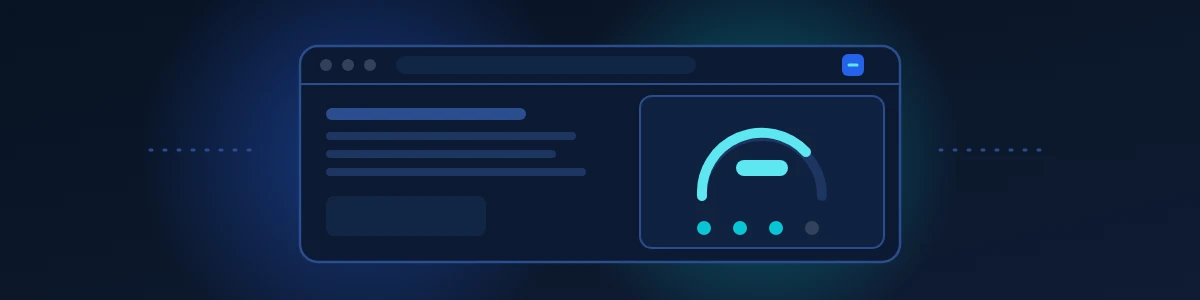
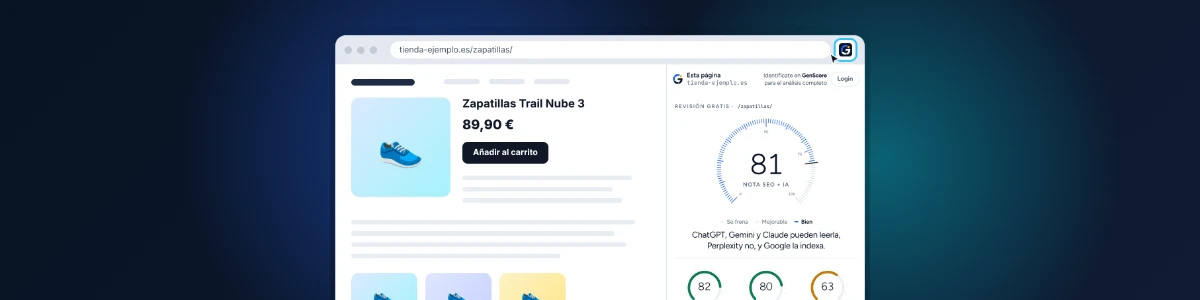
feat(blog): visual hero and sharp panel captures for the extension post
The article hero gains an optional heroImage (our own screens only): a
Chrome window with a made-up store and the real GenScore panel. The panel
captures were 1x store screenshots and looked blurry; they are now the real
panel.html rendered at 3x in its demo mode and saved at 2x WebP, limited to
their own width by .art-shot. Shorter title, one-line lede, three sections
with one capture each. Index cover is the same scene. Asset budget +384 KiB.

Claude-Session: https://claude.ai/code/session_01VstZYEwnTa1ZzCyyx6y4v1

diff --git a/lib/blog/posts.ts b/lib/blog/posts.ts
@@ -112,6 +112,13 @@ export type BlogPost = {
    * Rendered above `heroStat` when the post has both.
    */
   heroLogos?: { name: string; src: string; badge?: string }[][];
+  /**
+   * EXT-LAUNCH-1 (log §394): for a launch post about a GenScore screen, a
+   * picture of that screen on the dark hero, in place of a figure. Our own
+   * product only, rendered at 2x or more, with invented data said in `alt`
+   * (ADR 0028). Never a third party's product.
+   */
+  heroImage?: { src: string; alt: string; width: number; height: number };
 };
 
 export const BLOG_POSTS: BlogPost[] = [
@@ -842,19 +849,25 @@ export const BLOG_POSTS: BlogPost[] = [
   },
   {
     slug: "extension-de-chrome-de-genscore",
-    title: "GenScore ya tiene extensión de Chrome: SEO e IA de cualquier página en un clic",
+    title: "GenScore ya está en Chrome: mira cualquier web como la ve la IA",
     seoTitle: "Extensión de Chrome de GenScore: SEO e IA en un clic",
     metaDescription:
       "Extensión gratis para Chrome: nota SEO + IA de cualquier página, qué motores de IA pueden leerla y qué cambiar primero, con el código listo. Sin cuenta.",
     description:
-      "GenScore lanza su extensión de Chrome, gratis y sin cuenta: la nota SEO + IA de cualquier página, qué pueden leer ChatGPT, Gemini, Claude y Perplexity según su robots.txt, el SEO on page y cada arreglo con su código. Con tu cuenta, además, la visión general de tu dominio.",
+      "Un clic en cualquier página: su nota SEO + IA, qué motores de IA pueden leerla y qué cambiar primero. Gratis y sin cuenta.",
     datePublished: "2026-10-31",
     coverImage: "/blog/extension-de-chrome-de-genscore/cover.webp",
     coverIcon: "search",
+    heroImage: {
+      src: "/blog/extension-de-chrome-de-genscore/hero.webp",
+      alt: "Ventana de Chrome con la ficha de una tienda inventada y, al lado, el panel de GenScore con la nota SEO + IA de la página y sus indicadores IA, Google y Agentes.",
+      width: 1632,
+      height: 940
+    },
     // EXT-LAUNCH-1 (log §394): launch post for CHROME-EXT-1 (log §361, §362).
     // Product claims trace to the store build (docs/chrome-extension/prueba/
-    // extension, 1.0.0) and the /privacidad section; figures are the store
-    // screenshots with the extension's made-up sample store (ADR 0028).
+    // extension, 1.0.0) and the /privacidad section; every picture is the
+    // real panel rendered at 2x or more with a made-up store (ADR 0028).
     primaryKeyword: "extensión chrome seo ia",
     cluster: "playbooks"
   }

diff --git a/app/globals.css b/app/globals.css
@@ -9716,6 +9716,10 @@ select.set-field {
 .art-hero-big small { font-size: .55em; margin-left: 2px; }
 .art-hero-stat p { margin: 0 0 6px; max-width: 320px; font-size: 15px; line-height: 1.5; color: #e5e9f2; }
 .art-hero-stat p span { display: block; margin-top: 6px; font-size: 11.5px; font-weight: 600; color: var(--brand-ink-4); }
+.art-hero-shot { margin-top: 32px; }
+/* EXT-LAUNCH-1 (log §394): a 2x capture of a narrow panel, never stretched past its own width. */
+.art-shot { display: block; width: 100%; max-width: 400px; height: auto; margin: 0 auto; border-radius: 12px; box-shadow: 0 12px 32px -14px rgba(15, 28, 51, .35); }
+.art-hero-shot img { display: block; width: 100%; height: auto; }
 .art-hero-logos { margin-top: 36px; display: flex; align-items: flex-start; flex-wrap: wrap; gap: 18px 16px; }
 .art-hero-logo-pair { display: flex; align-items: flex-start; gap: 16px; }
 .art-hero-logo { margin: 0; display: flex; flex-direction: column; align-items: center; gap: 10px; }

diff --git a/tests/asset-budget.test.ts b/tests/asset-budget.test.ts
@@ -90,11 +90,12 @@ const MAX_FILE_BYTES = 320 * 1024;
  */
 /**
  * EXT-LAUNCH-1 (2026-10-31, log §394): el margen estaba en ~21 KB y el
- * artículo de la extensión de Chrome suma su portada (7 KB) y tres capturas
- * del panel recortadas, WebP a calidad 80 (~65 KB entre las tres). Se suben
- * 128 KiB: sitio para este artículo y unas cuatro portadas más de la rutina.
+ * artículo de la extensión de Chrome suma portada, imagen de cabecera y tres
+ * capturas del panel a 2x, WebP a calidad 86-90 (~230 KB entre todas; el
+ * fundador pidió que se vieran nítidas, y a 1x se veían borrosas). Se suben
+ * 384 KiB: sitio para este artículo y unas diez portadas más de la rutina.
  */
-const MAX_TOTAL_BYTES = 2640 * 1024;
+const MAX_TOTAL_BYTES = 2896 * 1024;
 
 /**
  * Descarga voluntaria del informe GEO de ejemplo (PR #625).

diff --git a/components/blog/article-hero.tsx b/components/blog/article-hero.tsx
@@ -48,6 +48,19 @@ export function ArticleHero({ post }: { post: BlogPost }) {
         <h1>{post.title}</h1>
         <p className="art-hero-sub">{post.description}</p>
 
+        {post.heroImage && (
+          <div className="art-hero-shot">
+            {/* eslint-disable-next-line @next/next/no-img-element */}
+            <img
+              src={post.heroImage.src}
+              alt={post.heroImage.alt}
+              width={post.heroImage.width}
+              height={post.heroImage.height}
+              fetchPriority="high"
+            />
+          </div>
+        )}
+
         {post.heroLogos && post.heroLogos.length > 0 && (
           <div className="art-hero-logos">
             {post.heroLogos.map((group, groupIndex) => (

diff --git a/docs/brand/design-decisions-log.md b/docs/brand/design-decisions-log.md
@@ -28281,10 +28281,19 @@ pasa con los datos. Todo sale del manifiesto 1.0.0, de la ficha aprobada en
 (`chromewebstore.google.com/detail/<nombre>/<id>`) y que el MDX no escriba la
 URL a mano, y ata el nombre y el atajo al manifiesto.
 
-**Imágenes.** Las capturas de la ficha de la tienda (marca de ejemplo
-inventada, `tienda-ejemplo.es`), pasadas a WebP, con el pie diciendo que los
-datos son inventados (ADR 0028). Portada nueva en el estilo de las demás; su
-SVG está en los archivos del proyecto (`contenido/blog/portadas/`).
+**Imágenes (segunda pasada, a petición de Denis: «portada más visual, menos
+texto», «imágenes nítidas», «ligero y con gancho»).** Las capturas de la ficha
+de la tienda eran 1280×800 a 1x y, recortadas al panel, se veían borrosas. Se
+sustituyen por el panel real (`docs/chrome-extension/prueba/extension/
+panel.html`, modo de demostración `window.__GS_DEMO`) pintado a 3x con una
+tienda inventada (`tienda-ejemplo.es`), guardado a 2x en WebP. La cabecera del
+artículo gana `heroImage` (`ArticleHero`, `lib/blog/posts.ts`): una ventana de
+Chrome con la ficha inventada y el panel al lado, y la portada del índice es
+esa misma escena. Sólo para pantallas nuestras, nunca un producto de terceros.
+El texto se acorta: titular «GenScore ya está en Chrome: mira cualquier web
+como la ve la IA», entradilla de una frase y tres secciones con una captura
+cada una. `.art-shot` limita las capturas del panel a su ancho real.
+Presupuesto de `public/` +384 KiB, anotado en `asset-budget.test.ts`.
 
 **Pendiente.** Que la ficha pase a «Pública» antes de difundir el artículo: si
 sigue «Oculta», el enlace funciona pero la extensión no sale en la búsqueda de
